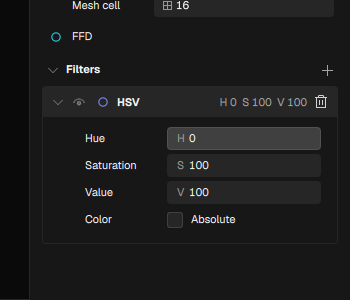
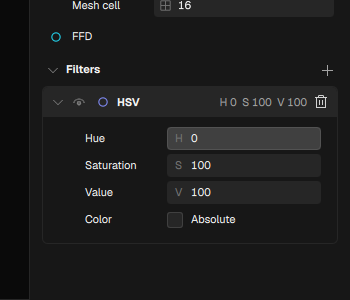
properties: tighten prefix layout and round filter cards
- field prefixes sit in a fixed 15px slot near the left edge and are centered
  there; numeric values start at the same x and stay left-aligned
- prefix text and icons use the dimmer textMutedDim token / MutedDim role,
  and the official fill icons rasterize at their physical 15px footprint
- filter cards use a 6px outer / 5px inner radius while ordinary fields stay
  at 4px, with the 1px outline and rounded top/bottom corners
- refresh captures

diff --git a/src/gui/qml/ScrubSpinBox.qml b/src/gui/qml/ScrubSpinBox.qml
@@ -1,4 +1,5 @@
 import QtQuick
+import QtQuick.Window
 
 // Hand-rolled Blender-style numeric input: drag horizontally to scrub the
 // value, click to type a value directly. Not a QC2 SpinBox: a SpinBox could
@@ -43,10 +44,10 @@ Item {
     // no glyph at all) cannot move the number horizontally. Dialog fields keep
     // their compact 8px inset.
     property bool reservePrefix: false
-    readonly property int contentLeft: reservePrefix ? 22
+    readonly property int contentLeft: reservePrefix ? 24
                                               : (prefixIcon !== "" ? 24 : (prefix !== "" ? 18 : 8))
-    readonly property int prefixSlotLeft: reservePrefix ? 6 : 8
-    readonly property int prefixSlotWidth: Math.max(0, contentLeft - prefixSlotLeft)
+    readonly property int prefixSlotLeft: reservePrefix ? 4 : 8
+    readonly property int prefixSlotWidth: reservePrefix ? 15 : Math.max(0, contentLeft - prefixSlotLeft)
     // NOTE: the enabled state is Item.enabled itself, deliberately NOT redeclared:
     // a `property bool enabled` here would shadow the base property, the item would
     // never report disabled to the accessibility tree, and a probe could not tell a
@@ -135,20 +136,28 @@ Item {
             anchors.centerIn: parent
             visible: root.prefix !== ""
             text: root.prefix
-            color: theme.textMuted
-            opacity: root.enabled ? 0.9 : 0.45
+            color: theme.textMutedDim
+            opacity: root.enabled ? 1.0 : 0.45
             font: root.textFont
         }
         Image {
-            anchors.centerIn: parent
+            // 15px is the largest integer glyph that centers exactly in the
+            // 23px field (4px above, 4px below); 14px left it on a half pixel.
+            anchors.horizontalCenter: parent.horizontalCenter
+            y: Math.floor((parent.height - height) / 2)
             visible: root.prefixIcon !== ""
-            width: 13
-            height: 13
+            width: 15
+            height: 15
             source: root.prefixIcon === "" ? "" : theme.iconUrl(root.prefixIcon)
-            sourceSize.width: 64
-            sourceSize.height: 64
+            // SVG sourceSize is in PIXELS. Size the raster to the icon's
+            // physical footprint so a high-DPI screen does not stretch a 14px
+            // bitmap; at scale 1 this is the same 14px that removes the
+            // four-times-downsample blur of the old 64px source.
+            sourceSize.width: Math.ceil(width * Screen.devicePixelRatio)
+            sourceSize.height: Math.ceil(height * Screen.devicePixelRatio)
             fillMode: Image.PreserveAspectFit
-            opacity: root.enabled ? 0.9 : 0.45
+            smooth: true
+            opacity: root.enabled ? 1.0 : 0.45
         }
     }
 

diff --git a/src/gui/qml/InspectorFilterCard.qml b/src/gui/qml/InspectorFilterCard.qml
@@ -47,6 +47,8 @@ Item {
     }
     property var filterRow: emptyRow
     property int cardIndex: 0
+    readonly property int cardRadius: 6
+    readonly property int cardInnerRadius: 5
     signal dragStarted(int index)
     signal dragMoved(int index, real sceneY)
     signal dragEnded(int index, real sceneY)
@@ -63,7 +65,7 @@ Item {
         id: cardFrame
         anchors.fill: parent
         visible: filterRow.expanded
-        radius: 4
+        radius: root.cardRadius
         color: "transparent"
         border.width: 1
         border.color: theme.hairline
@@ -75,7 +77,7 @@ Item {
         y: filterRow.expanded ? 1 : 0
         width: parent.width - (filterRow.expanded ? 2 : 0)
         height: 30
-        radius: filterRow.expanded ? 3 : 4
+        radius: filterRow.expanded ? root.cardInnerRadius : root.cardRadius
         color: filterRow.expanded || headerMouse.containsMouse ? theme.raised : "transparent"
 
         // Expanded: the header's top corners stay rounded, its bottom edge
@@ -86,7 +88,7 @@ Item {
             anchors.left: parent.left
             anchors.right: parent.right
             anchors.bottom: parent.bottom
-            height: 4
+            height: root.cardInnerRadius
             color: headerItem.color
         }
 
@@ -207,7 +209,7 @@ Item {
         height: filterRow.expanded ? bodyColumn.implicitHeight + 18 : 0
         visible: filterRow.expanded
         color: theme.base
-        radius: filterRow.expanded ? 3 : 0
+        radius: filterRow.expanded ? root.cardInnerRadius : 0
 
         // Round the BOTTOM of the body only: the header joins it squarely and
         // the header's own bottom patch does the same at the junction.
@@ -216,7 +218,7 @@ Item {
             anchors.left: parent.left
             anchors.right: parent.right
             anchors.top: parent.top
-            height: 4
+            height: root.cardInnerRadius
             color: body.color
         }
 

diff --git a/src/gui/theme/Icons.cpp b/src/gui/theme/Icons.cpp
@@ -45,12 +45,12 @@ const QHash<QString, IconRole>& roleTable() {
         {QStringLiteral("dialog_open"), IconRole::Text},
         {QStringLiteral("dialog_reset"), IconRole::Text},
         {QStringLiteral("dialog_save"), IconRole::Text},
-        {QStringLiteral("arrows-horizontal"), IconRole::Muted},
-        {QStringLiteral("arrows-vertical"), IconRole::Muted},
-        {QStringLiteral("depth"), IconRole::Muted},
-        {QStringLiteral("circle-half"), IconRole::Muted},
-        {QStringLiteral("grid-four"), IconRole::Muted},
-        {QStringLiteral("angle"), IconRole::Muted},
+        {QStringLiteral("arrows-horizontal"), IconRole::MutedDim},
+        {QStringLiteral("arrows-vertical"), IconRole::MutedDim},
+        {QStringLiteral("depth"), IconRole::MutedDim},
+        {QStringLiteral("circle-half"), IconRole::MutedDim},
+        {QStringLiteral("grid-four"), IconRole::MutedDim},
+        {QStringLiteral("angle"), IconRole::MutedDim},
         {QStringLiteral("arrows-out-line-horizontal"), IconRole::Text},
         {QStringLiteral("down_arrow"), IconRole::Muted},
         {QStringLiteral("down_arrow_disabled"), IconRole::Disabled},
@@ -120,6 +120,7 @@ QColor roleColor(IconRole aRole, const Colors& aColors) {
     switch (aRole) {
     case IconRole::Text: return aColors.icon;
     case IconRole::Muted: return aColors.textMuted;
+    case IconRole::MutedDim: return aColors.textMutedDim;
     case IconRole::Hairline: return aColors.hairline;
     case IconRole::Accent: return aColors.focus;
     case IconRole::Outline: return aColors.outline;

diff --git a/src/gui/theme/Icons.h b/src/gui/theme/Icons.h
@@ -8,7 +8,7 @@
 namespace theme {
 
 // Each canonical glyph is tinted with one token, chosen by its role.
-enum class IconRole { Text, Muted, Hairline, Accent, Outline, Disabled };
+enum class IconRole { Text, Muted, MutedDim, Hairline, Accent, Outline, Disabled };
 
 // Token color for a role under a palette.
 QColor roleColor(IconRole aRole, const Colors& aColors);

diff --git a/AGENTS.md b/AGENTS.md
@@ -3797,13 +3797,15 @@ family and point size from `LocaleParam` (`uiFont`), which is what makes 8pt mat
 **In-field labels and units.** `ScrubSpinBox` draws a muted `prefix` and a themed `prefixIcon` at the
 left, and appends the `suffix` to the displayed numeric string (`0` + `°`), so a unit is part of the
 value rather than a separately right-aligned label. The inspector sets `reservePrefix: true`: every
-field reserves the same 22px lead-in, and a 16px slot from x=6..22 centers the prefix (text or icon)
-inside it. The numeric text starts at x=22 in every field whether the glyph is X/Y, an icon, or
-absent, and values stay LEFT-aligned. The chosen vocabulary: Position/Centroid/Image Center use
+field reserves the same 24px lead-in, and a fixed 15px slot from x=4..19 fits/centers the prefix
+(text or icon) with no redundant side padding. The numeric text starts at x=24 in every field whether the glyph is X/Y, an icon, or
+absent, and values stay LEFT-aligned. Prefix glyphs are rasterized at their physical footprint (`sourceSize = 15 * devicePixelRatio`) from
+the official Phosphor FILL assets (`.../assets/regular`) - not the raw stroke assets, which Qt
+rasterizes poorly at this size. The chosen vocabulary: Position/Centroid/Image Center use
 `X`/`Y`; Scale uses Phosphor `arrows-horizontal`/`arrows-vertical`; Depth uses `depth` (the cube
 glyph); Opacity uses `circle-half`; Mesh cell uses `grid-four`; Rotation/Blur angle use the official
 Phosphor `angle` glyph plus a `°` suffix; HSV uses `H`/`S`/`V`. Prefix text and every glyph use the
-SAME `theme.textMuted` token and the same opacity (icon roles `Muted`). The degree suffix is announced
+SAME `theme.textMutedDim` token and the same opacity (icon roles `MutedDim`). The degree suffix is announced
 as "Degrees"; no other unit was invented. Icons live in `assets/icons/ph/` and are tinted by the
 existing role table.
 
